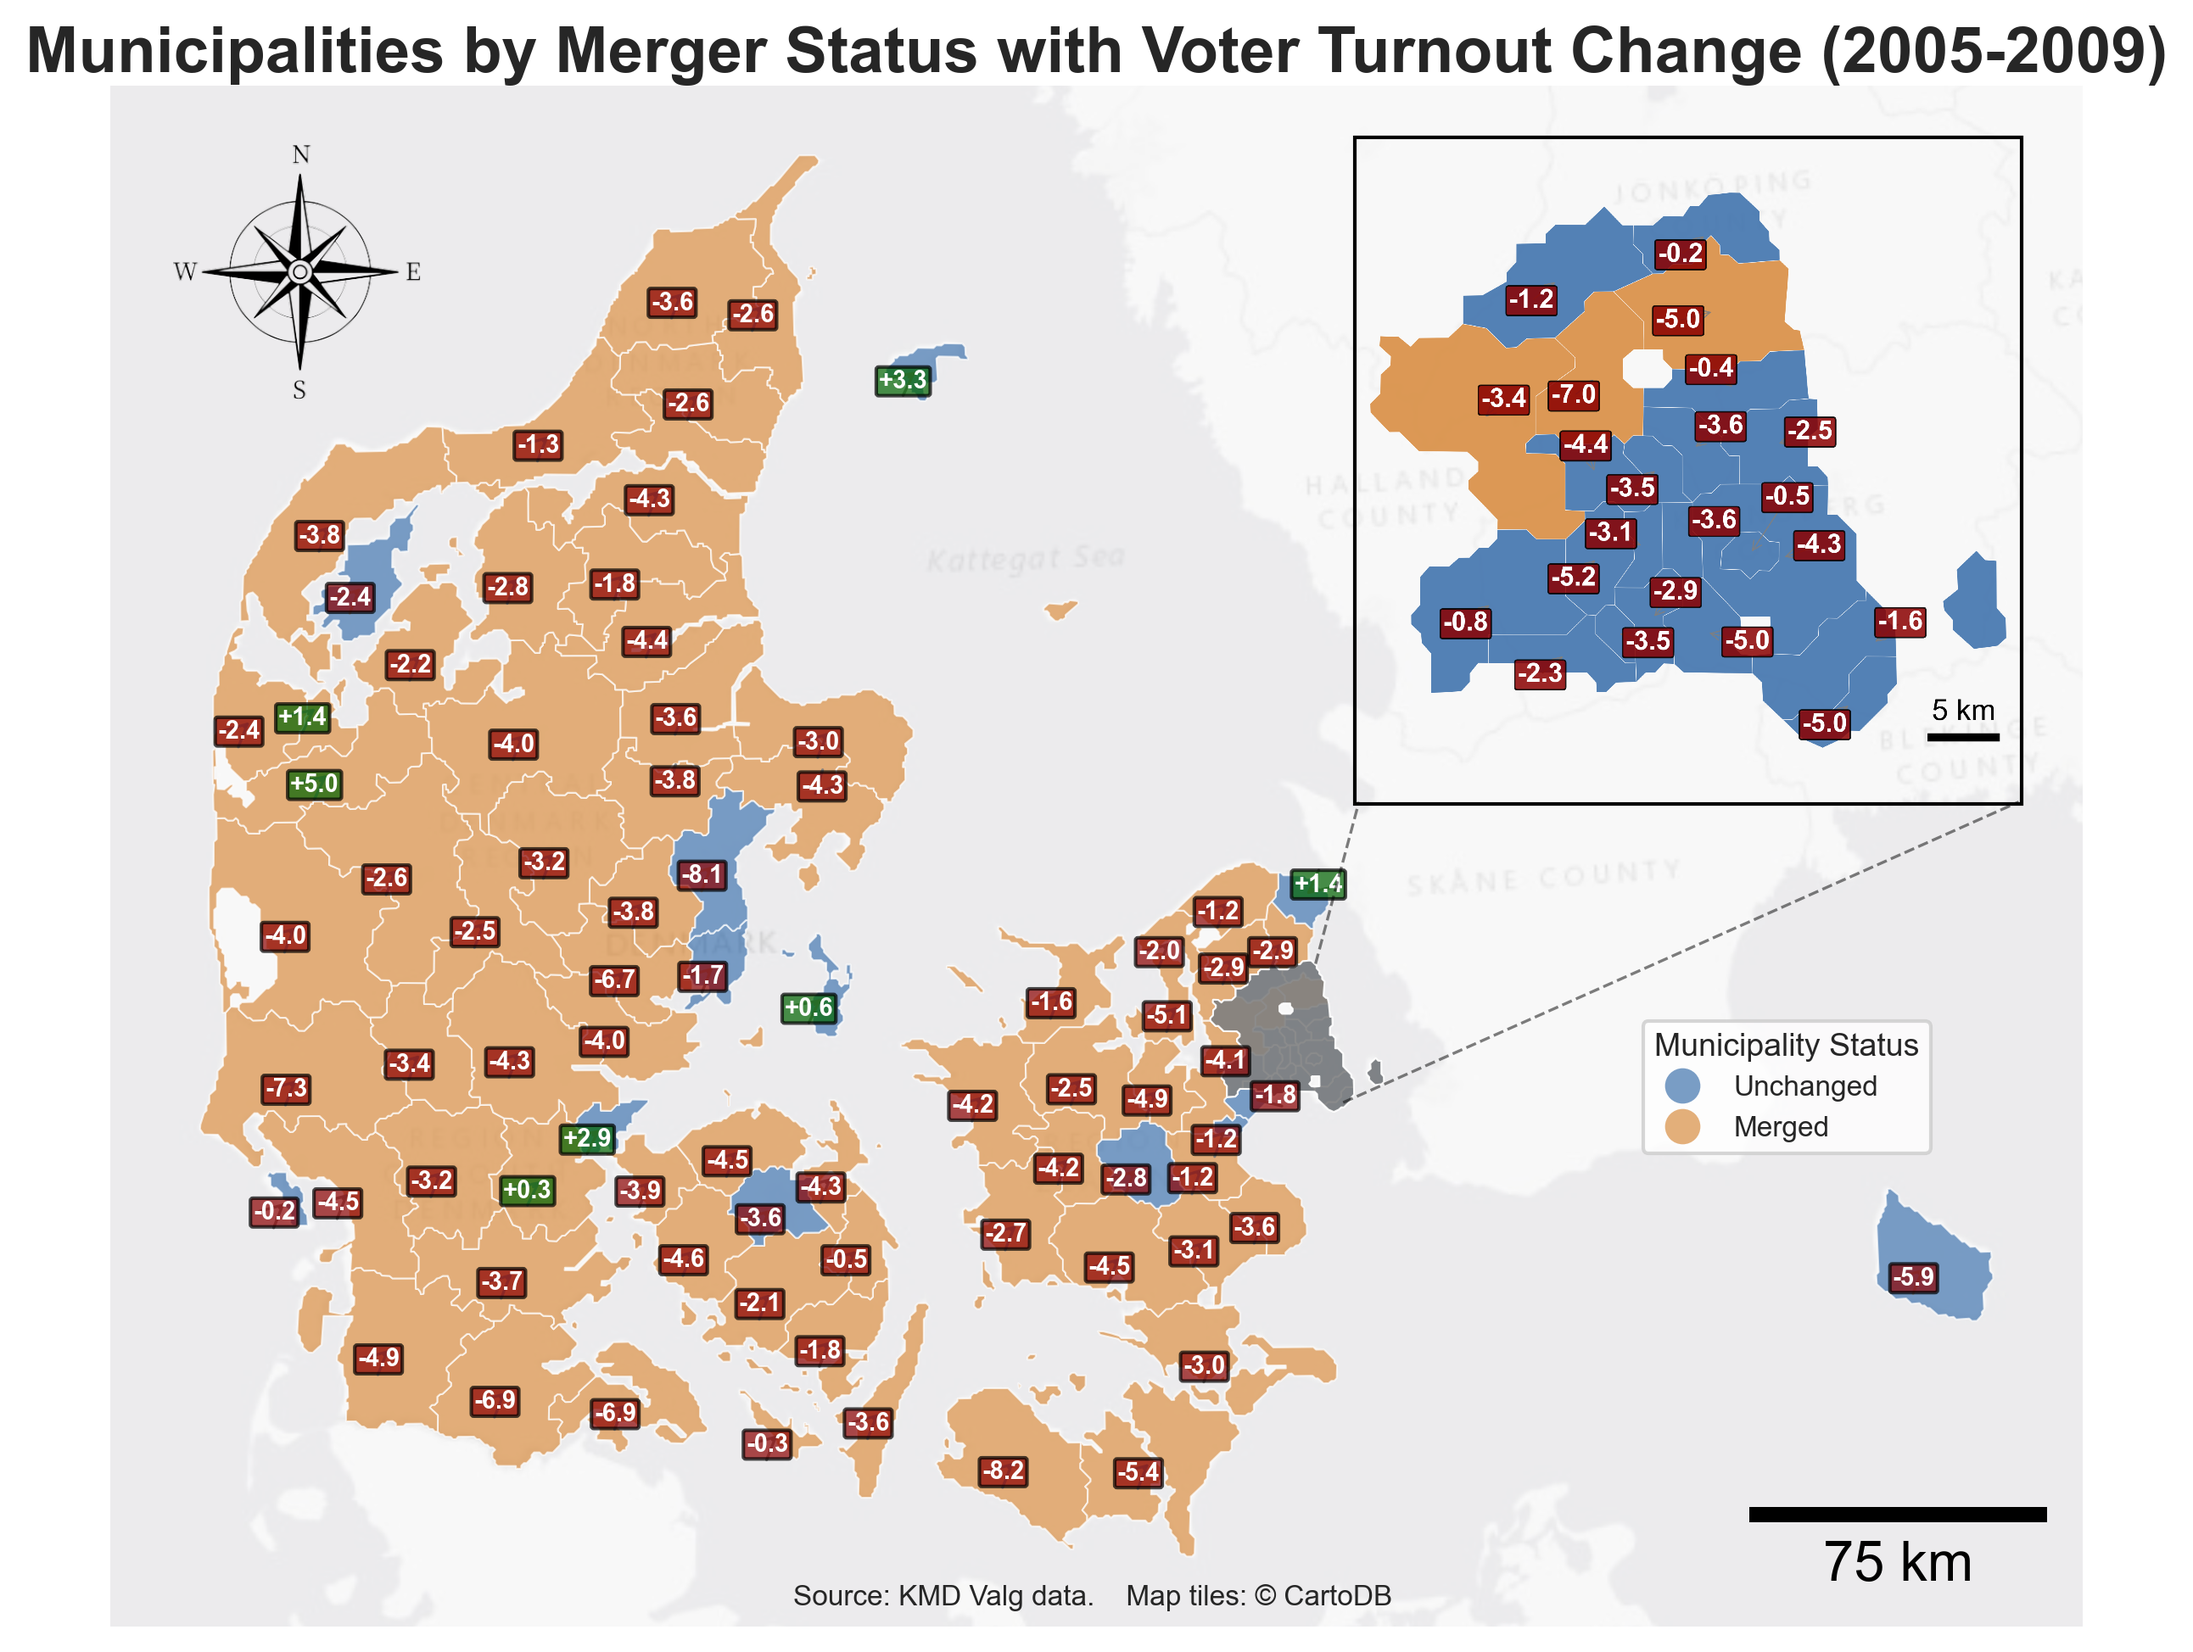
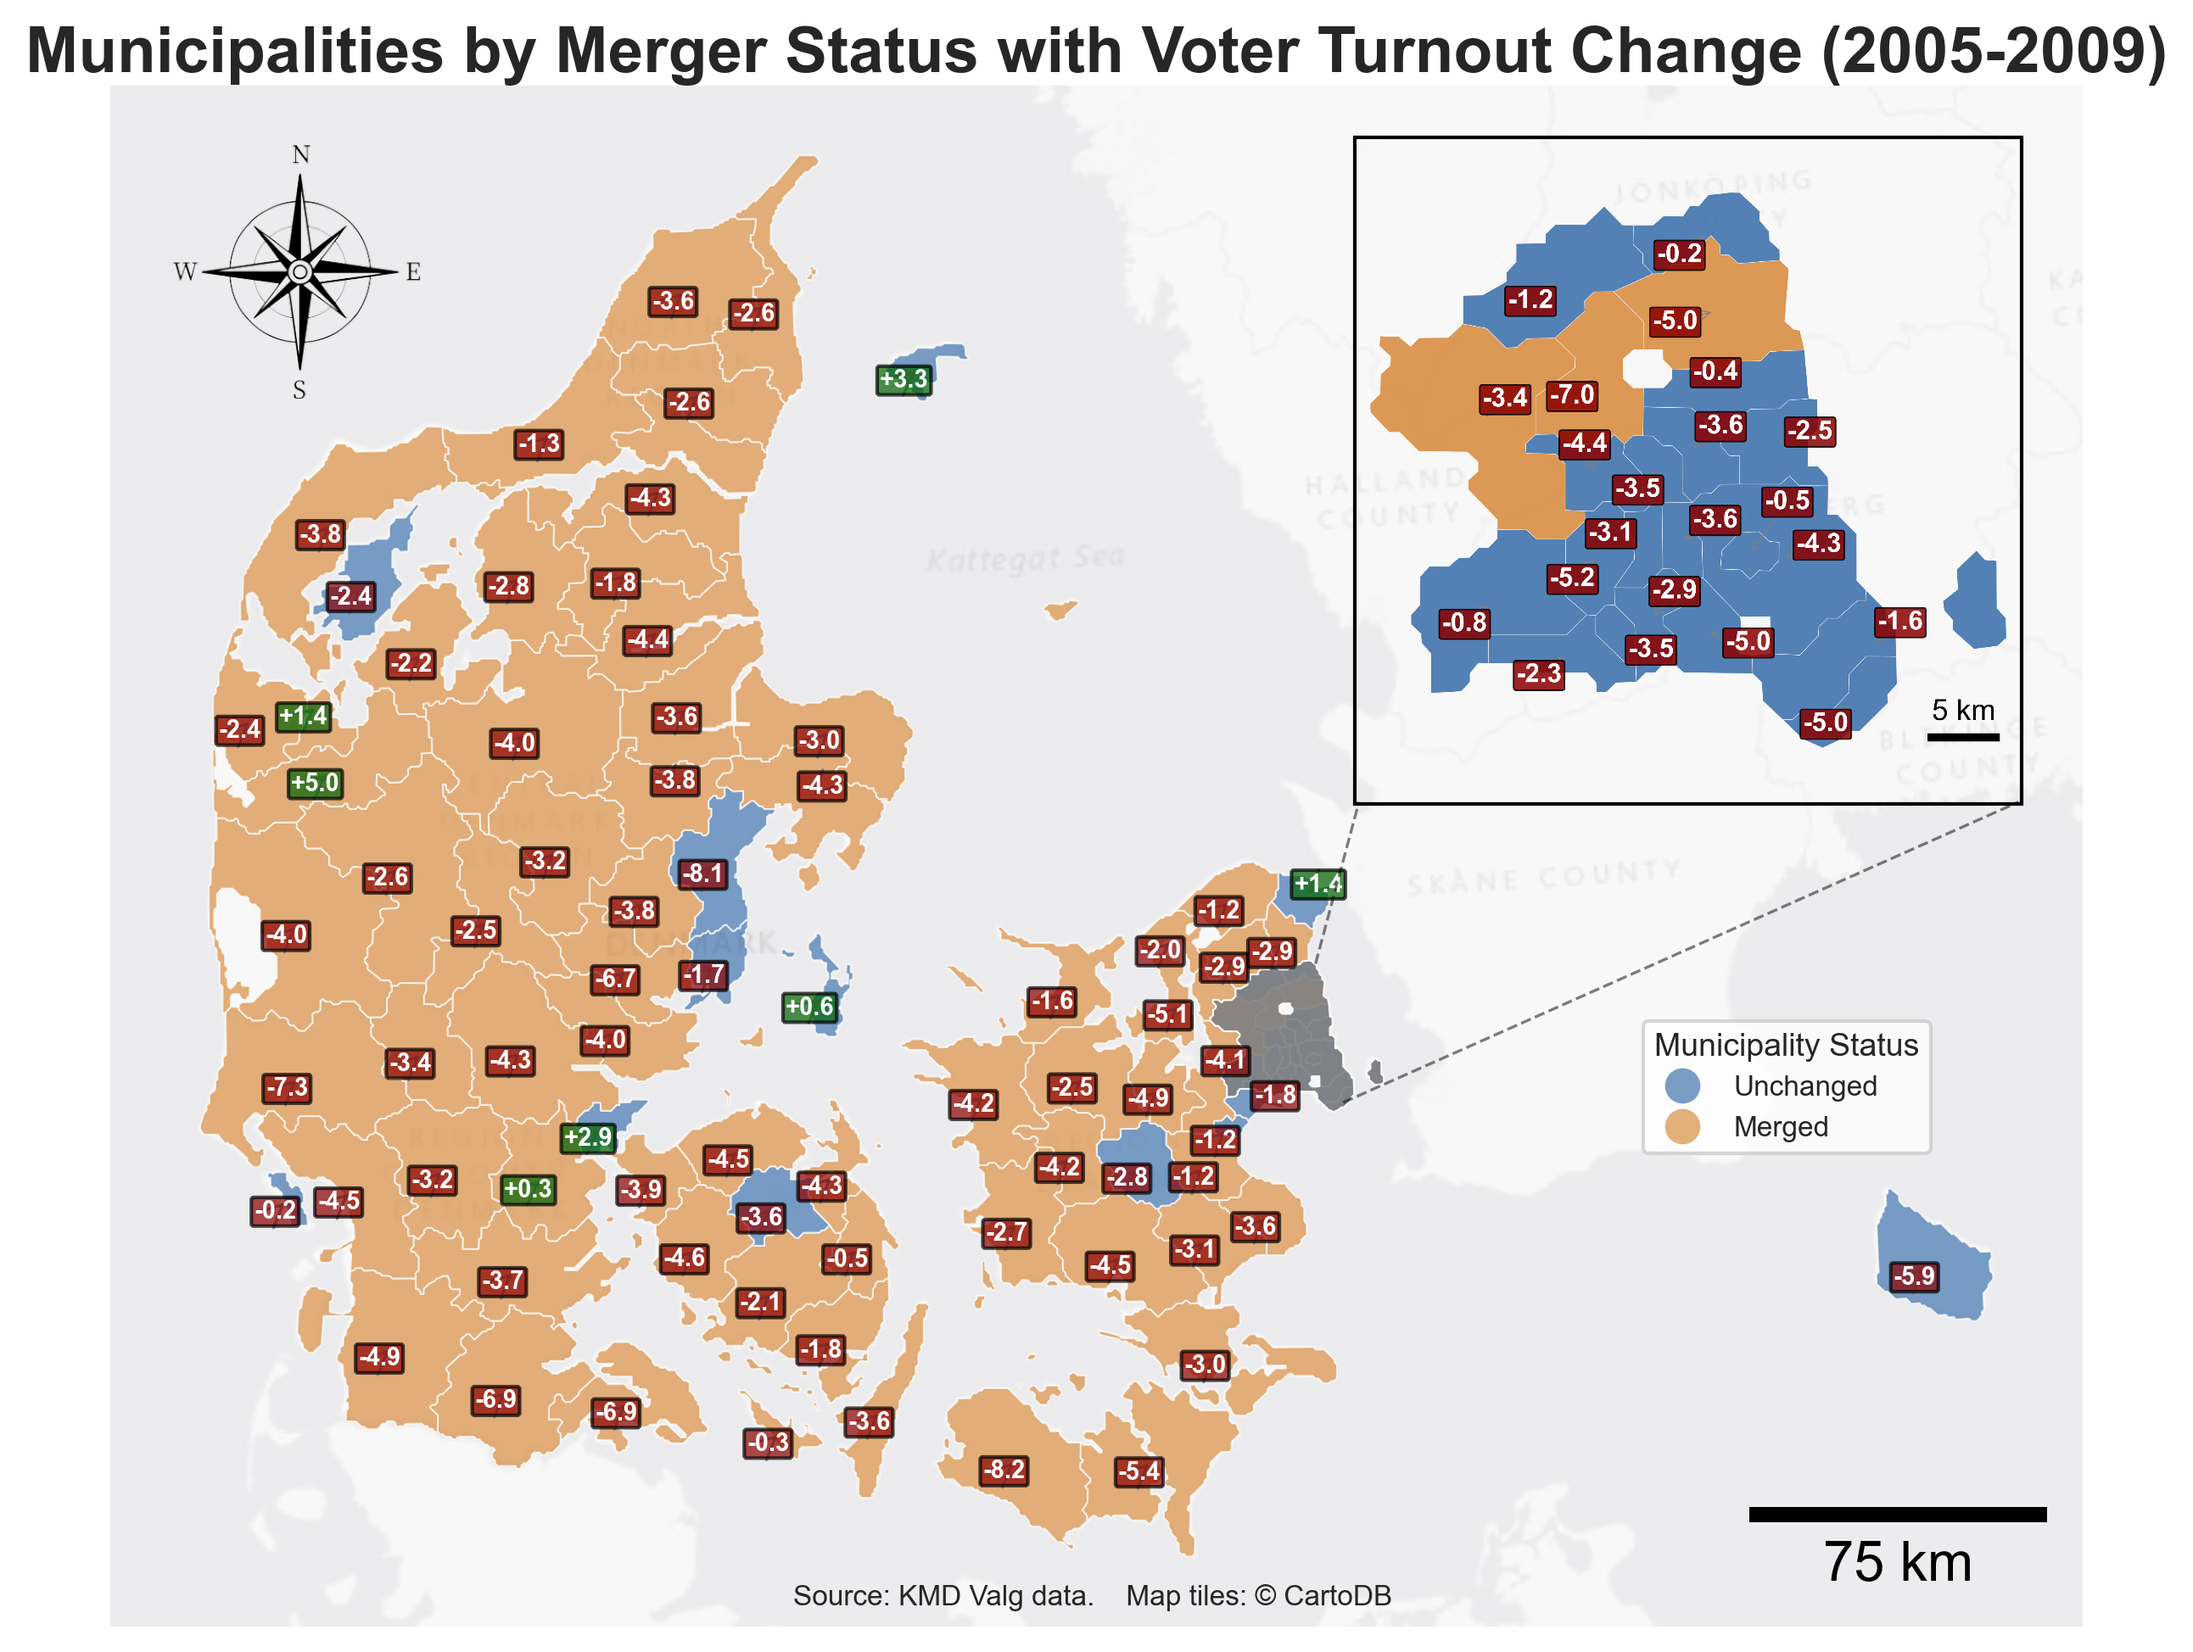
Update coordinate reference system to EPSG:32632 for spatial data processing
- Changed the projection from EPSG:25832 to EPSG:32632 in the DataAnalyzer and Visualizer classes

diff --git a/src/services/visualizer.py b/src/services/visualizer.py
@@ -133,12 +133,12 @@ class Visualizer:
             spatial_data: GeoDataFrame to prepare
 
         Returns:
-            GeoDataFrame in UTM Zone 32N projection (EPSG:25832)
+            GeoDataFrame in UTM Zone 32N projection (EPSG:32632)
         """
-        # Ensure data is in UTM Zone 32N (EPSG:25832) - appropriate for Denmark
-        if spatial_data.crs is None or spatial_data.crs.to_string() != "EPSG:25832":
-            self.logger.info("Converting spatial data to EPSG:25832 (UTM Zone 32N)")
-            spatial_data = spatial_data.to_crs("EPSG:25832")
+        # Ensure data is in UTM Zone 32N (EPSG:32632) - appropriate for Denmark
+        if spatial_data.crs is None or spatial_data.crs.to_string() != "EPSG:32632":
+            self.logger.info("Converting spatial data to EPSG:32632 (UTM Zone 32N)")
+            spatial_data = spatial_data.to_crs("EPSG:32632")
 
         # Return data in UTM coordinates (better for scale accuracy)
         return spatial_data
@@ -147,7 +147,7 @@ class Visualizer:
         """Add a basemap to the given axis.
 
         Args:
-            ax: Matplotlib axis with data in EPSG:25832 projection
+            ax: Matplotlib axis with data in EPSG:32632 projection
         """
         try:
             # Specify the CRS when adding the basemap
@@ -157,7 +157,7 @@ class Visualizer:
                 zoom="auto",
                 alpha=0.4,
                 attribution=False,
-                crs="EPSG:25832",  # Specify that our data is in UTM Zone 32N
+                crs="EPSG:32632",  # Specify that our data is in UTM Zone 32N
             )
 
             self.tile_attribution = "Map tiles: © CartoDB"

diff --git a/src/services/data_analyzer.py b/src/services/data_analyzer.py
@@ -548,13 +548,13 @@ class DataAnalyzer:
 
         # Ensure data is in correct projection
         metro_2005_web = (
-            metro_2005.to_crs("EPSG:25832")
-            if metro_2005.crs is None or metro_2005.crs.to_string() != "EPSG:25832"
+            metro_2005.to_crs("EPSG:32632")
+            if metro_2005.crs is None or metro_2005.crs.to_string() != "EPSG:32632"
             else metro_2005
         )
         metro_2009_web = (
-            metro_2009.to_crs("EPSG:25832")
-            if metro_2009.crs is None or metro_2009.crs.to_string() != "EPSG:25832"
+            metro_2009.to_crs("EPSG:32632")
+            if metro_2009.crs is None or metro_2009.crs.to_string() != "EPSG:32632"
             else metro_2009
         )
 
